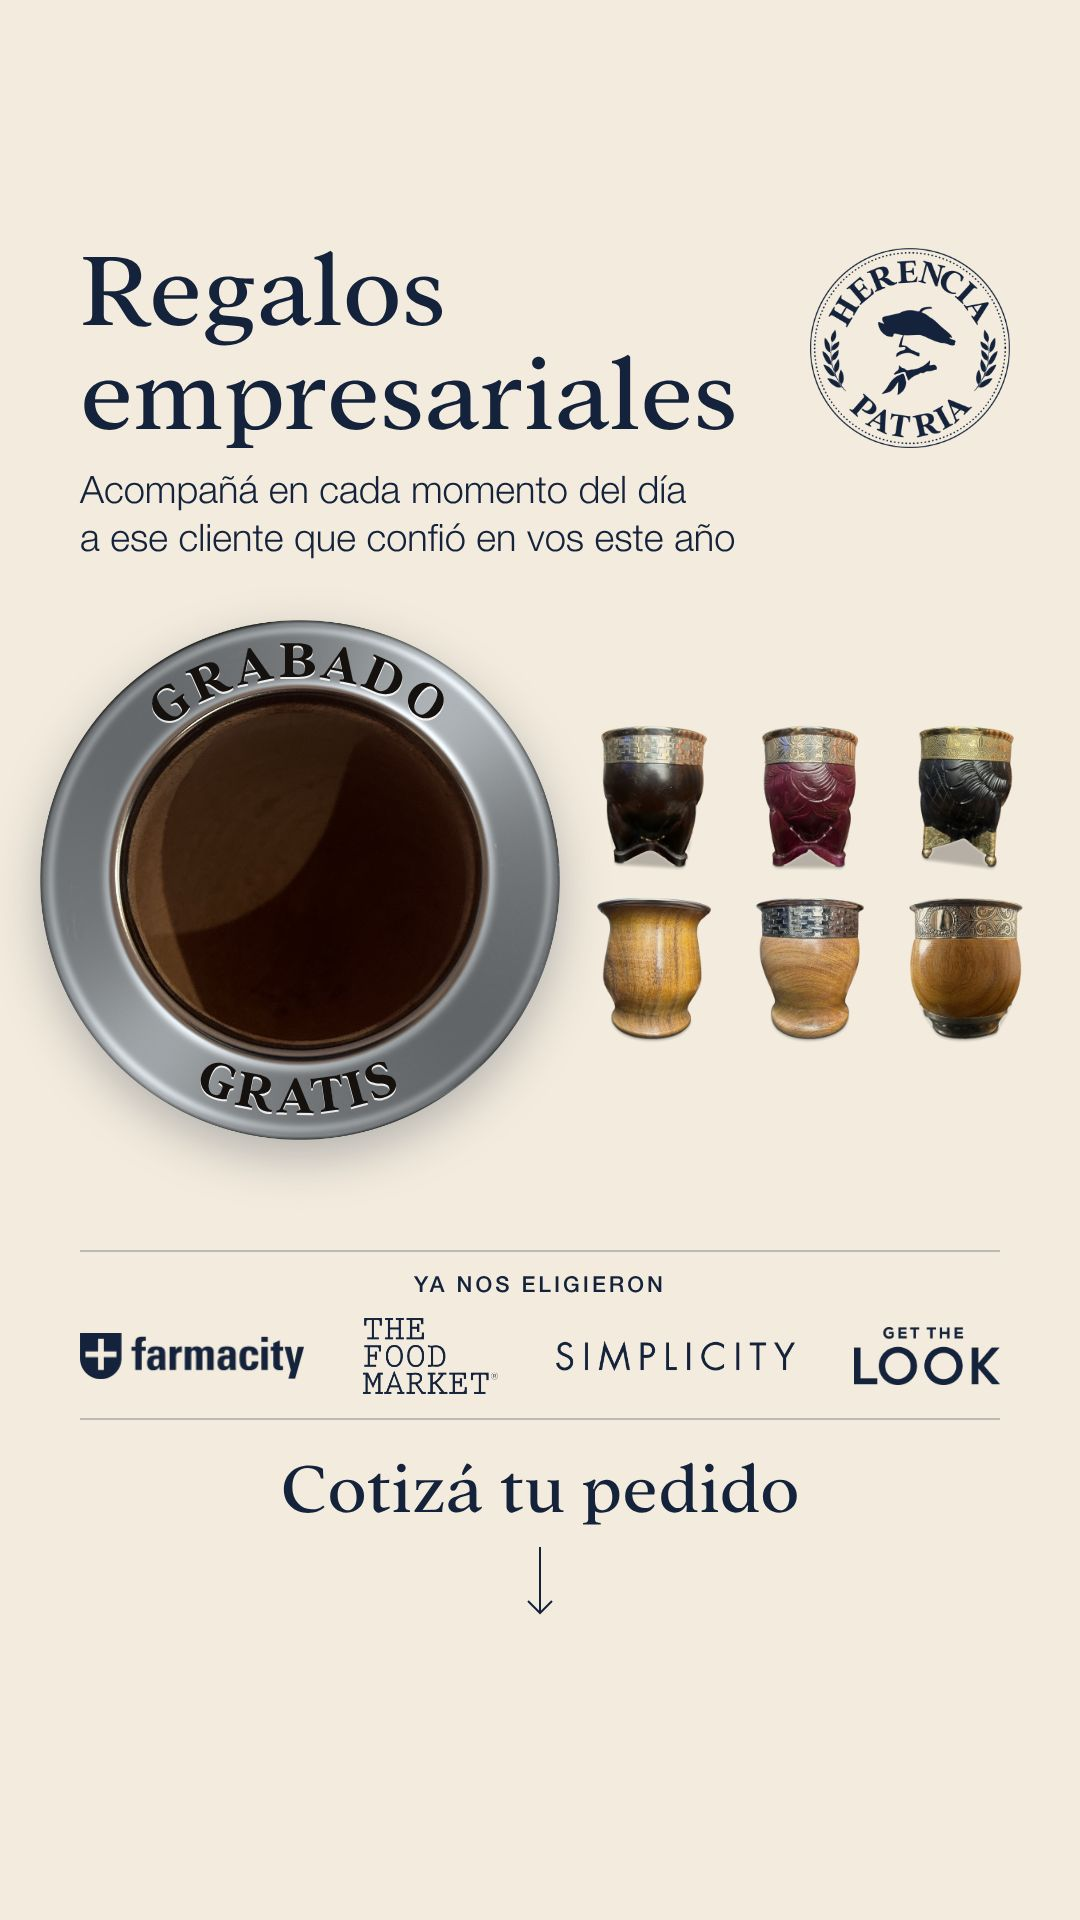
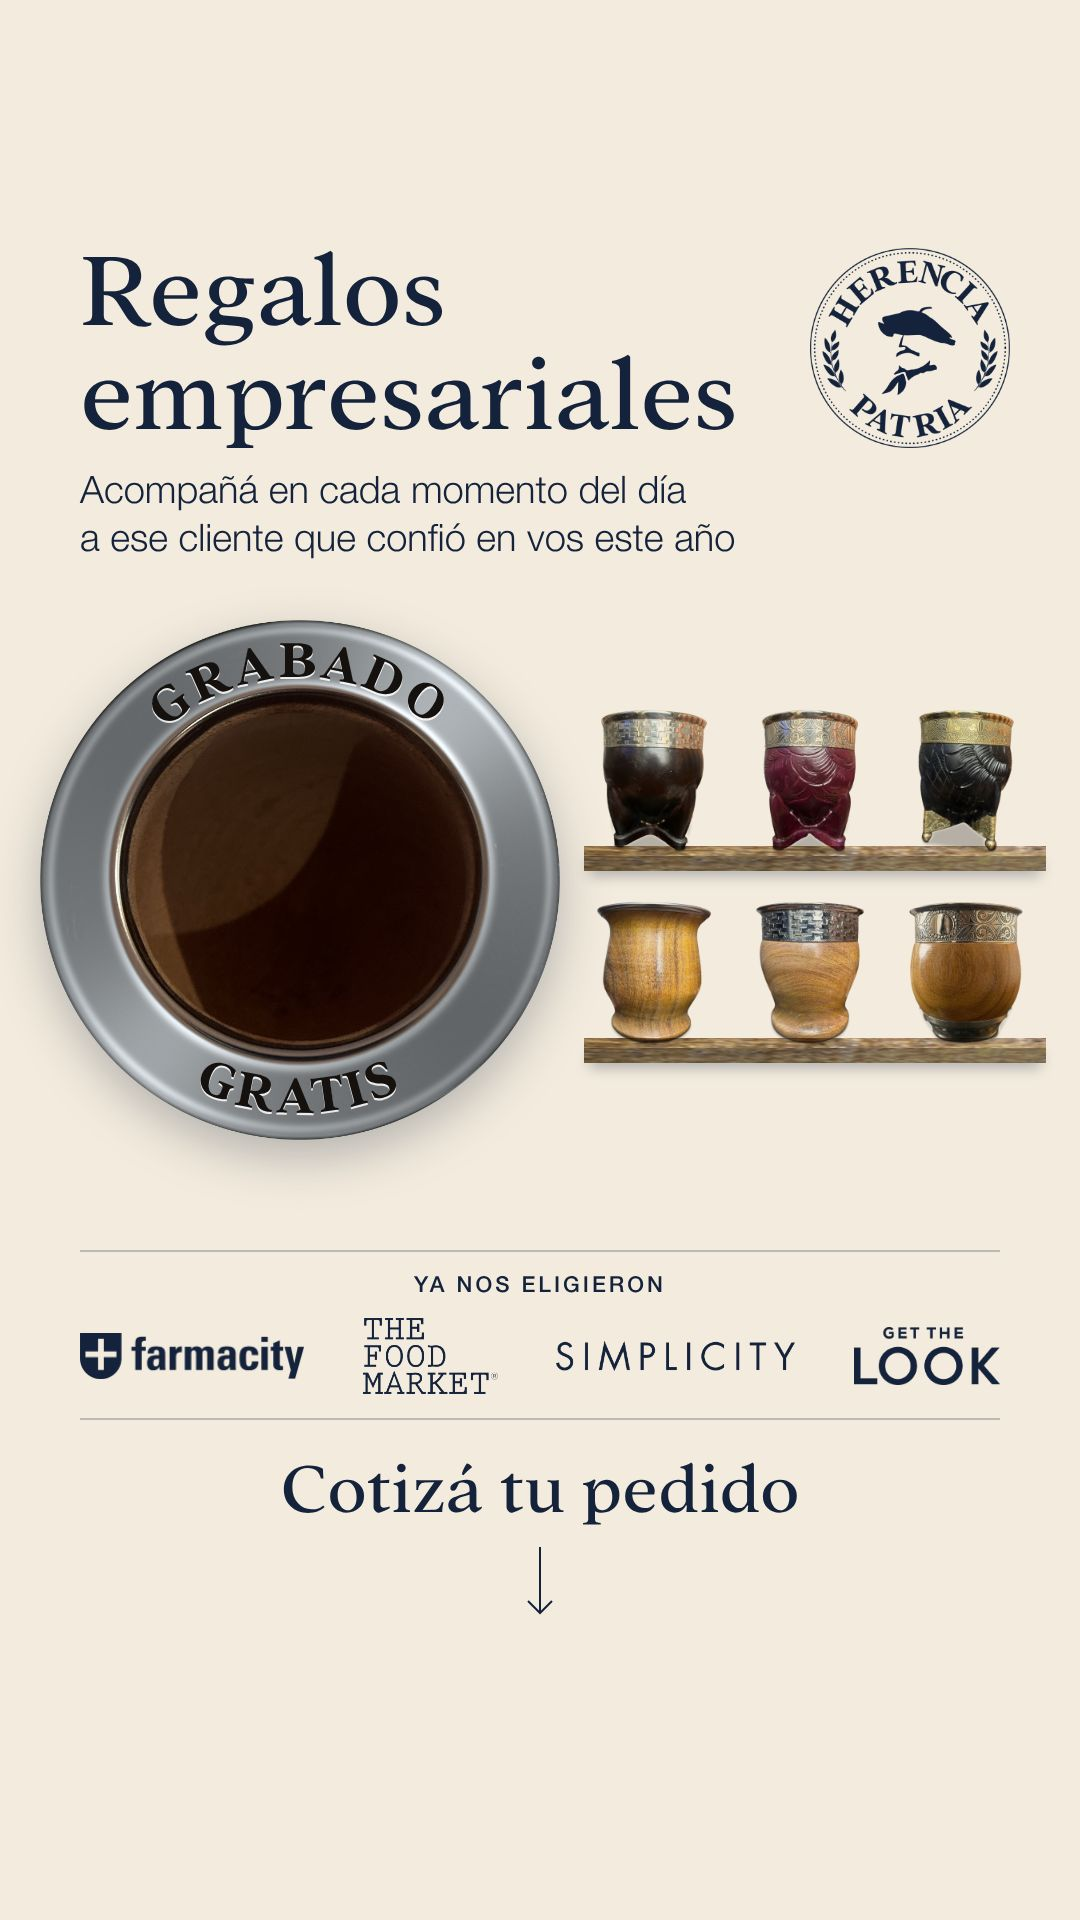
Historia empresarial B: los mates sobre dos tablas de madera
Tablas finas hechas con la madera real del ranchero (veta acostada, color
apagado); la sombra de cada mate cae sobre la madera.

Claude-Session: https://claude.ai/code/session_012H3xPSmbqKoMmc2aK7okNH

Changed region(s): [[0.5194, 0.3438, 0.9778, 0.5625]]

diff --git a/src/HerenciaPatria/HistoriaEmpresasLogo.tsx b/src/HerenciaPatria/HistoriaEmpresasLogo.tsx
@@ -144,33 +144,67 @@ export const HistoriaEmpresasLogo: React.FC<{
           )),
         )}
       </svg>
-      {/* Los otros modelos: dos filas de tres. */}
-      {[otros.slice(0, 3), otros.slice(3)].map((fila, i) => (
-        <div
-          key={fila.join()}
-          style={{
-            position: "absolute",
-            top: y0 + lado / 2 - chico * 0.9 + i * chico * 0.86,
-            left: xGrilla,
-            right: 30,
-            display: "flex",
-            justifyContent: "center",
-          }}
-        >
-          {fila.map((src) => (
+      {/* Los otros modelos: dos filas de tres, cada una sobre una tabla de
+          madera fina (la madera real del ranchero, con la veta acostada y el
+          color apagado). La tabla va antes que los mates: con "multiply" la
+          sombra de cada mate cae sobre la madera. */}
+      {[otros.slice(0, 3), otros.slice(3)].map((fila, i) => {
+        const top = y0 + lado / 2 - chico * 0.98 + i * chico * 0.96;
+        // Donde apoyan los mates: el pie de la foto de producto.
+        const apoyo = top + chico * 0.83;
+        // Una franja de la foto de la madera, recortada a la altura de la cara.
+        const madera = (alto: number, desde: number, luz: number) => (
+          <div style={{ height: alto, overflow: "hidden" }}>
             <Img
-              key={src}
-              src={staticFile(src)}
+              src={staticFile("tabla-madera.jpg")}
               style={{
-                width: chico,
-                height: chico,
-                margin: `0 -${chico * 0.11}px`,
-                mixBlendMode: "multiply",
+                width: "100%",
+                marginTop: -desde,
+                filter: `brightness(${luz})`,
               }}
             />
-          ))}
-        </div>
-      ))}
+          </div>
+        );
+        return (
+          <div key={fila.join()}>
+            <div
+              style={{
+                position: "absolute",
+                top: apoyo - 4,
+                left: xGrilla + 14,
+                right: 34,
+                boxShadow: "0 10px 14px -6px rgba(20,35,59,0.35)",
+              }}
+            >
+              {madera(10, 0, 1.12)}
+              {madera(15, 40, 0.72)}
+            </div>
+            <div
+              style={{
+                position: "absolute",
+                top,
+                left: xGrilla,
+                right: 30,
+                display: "flex",
+                justifyContent: "center",
+              }}
+            >
+              {fila.map((src) => (
+                <Img
+                  key={src}
+                  src={staticFile(src)}
+                  style={{
+                    width: chico,
+                    height: chico,
+                    margin: `0 -${chico * 0.11}px`,
+                    mixBlendMode: "multiply",
+                  }}
+                />
+              ))}
+            </div>
+          </div>
+        );
+      })}
       <div style={{ ...filete, top: 1250 }} />
       {/* Quiénes ya los eligieron: los logos en el azul de la marca. */}
       <div
